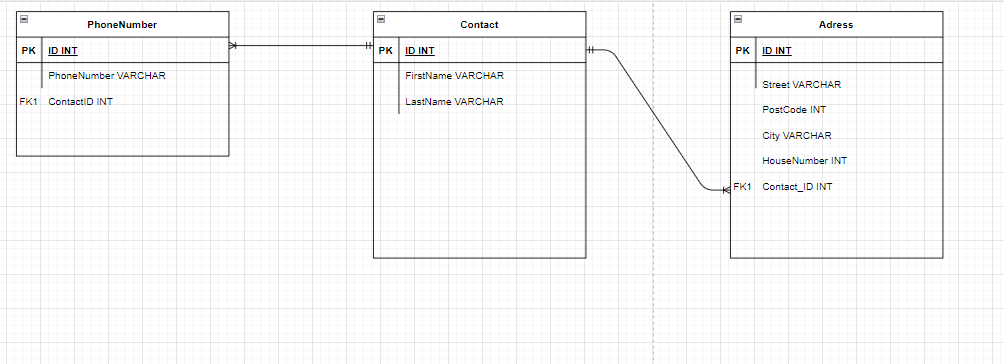
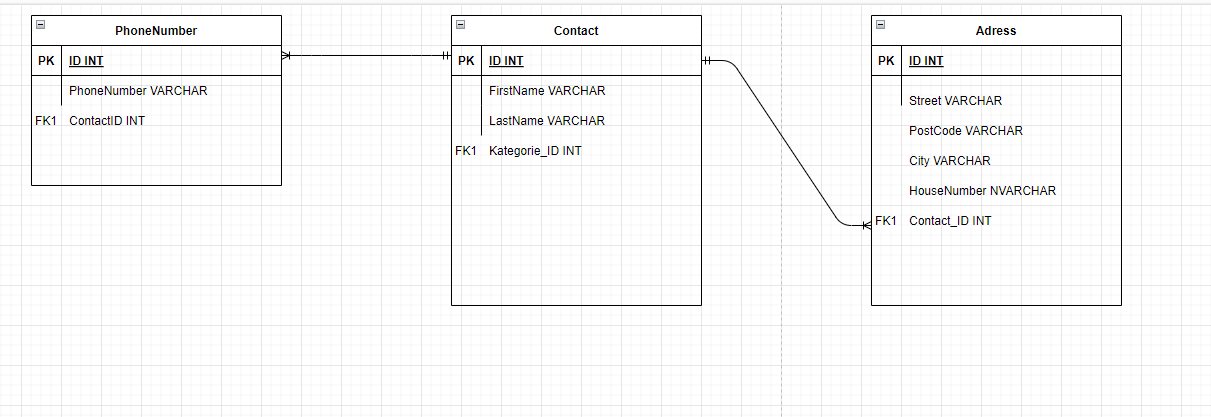
datamodel

diff --git a/adress/create_database_category.py b/adress/create_database_category.py
@@ -40,9 +40,9 @@ class Create_Contact():
             CREATE TABLE Adress(
             ID INT PRIMARY KEY,
             Street VARCHAR,
-            PostCode INT,
+            PostCode VARCHAR,
             City VARCHAR,
-            HouseNumber INT,
+            HouseNumber NVARCHAR,
             Contact_ID INT,
             FOREIGN KEY(Contact_ID) REFERENCES Contact(ID));
         """ 

diff --git a/adress/create_database.py b/adress/create_database.py
@@ -38,9 +38,9 @@ class Create():
             CREATE TABLE Adress(
             ID INT PRIMARY KEY,
             Street VARCHAR,
-            PostCode INT,
+            PostCode VARCHAR,
             City VARCHAR,
-            HouseNumber INT,
+            HouseNumber NVARCHAR,
             Contact_ID INT,
             FOREIGN KEY(Contact_ID) REFERENCES Contact(ID));
         """ 
